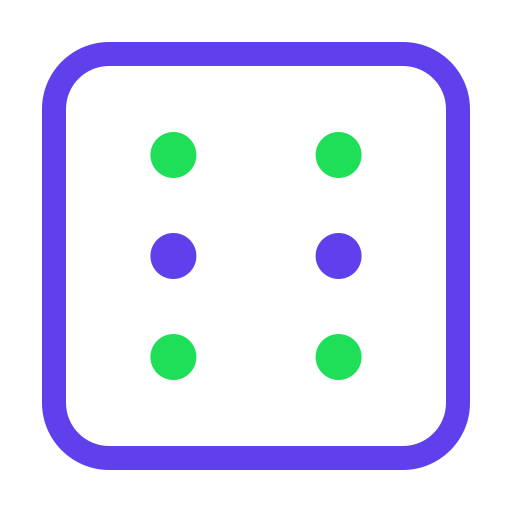
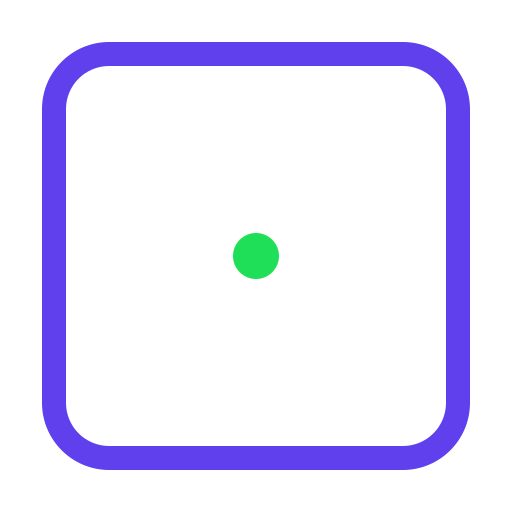
주사위 업로드

diff --git a/html/AM_class/homework/0916_game/주사위.html b/html/AM_class/homework/0916_game/주사위.html
@@ -1,12 +1,40 @@
 <!DOCTYPE html>
 <html lang="en">
+
 <head>
     <meta charset="UTF-8">
     <meta http-equiv="X-UA-Compatible" content="IE=edge">
     <meta name="viewport" content="width=device-width, initial-scale=1.0">
     <title>Document</title>
+    <link rel="stylesheet" href="주사위.css">
 </head>
-<body>
+
+<body onload="showImage()">
+    <div id="mask">
+        <div id="display_wrap">
+            <div id="user_dp">
+                <div class="title" id="user_title">user</div>
+                <div class="img_box">
+                    <div id="user_dp1" class="dp_img"><img src="" id="user_img1"></div>
+                    <div id="user_dp2" class="dp_img"><img src="" id="user_img2"></div>
+                    <div id="user_dp3" class="dp_img"><img src="" id="user_img3"></div>
+                </div>
+            </div>
+            <div id="com_dp">
+                <div class="title" id="com_title">com</div>
+                <div class="img_box">
+                    <div id="com_dp1" class="dp_img"><img src="" id="com_img1"></div>
+                    <div id="com_dp2" class="dp_img"><img src="" id="com_img2"></div>
+                    <div id="com_dp3" class="dp_img"><img src="" id="com_img3"></div>
+                </div>
+            </div>
+        </div>
+        <div id="ment_wrap">승자는??</div>
+        <div id="ctrl_wrap">
+            <button onclick="doClick()" id="start">주사위 굴리기</button>
+            <button id="retry" onclick="reTry()">재시작</button>
+        </div>
+    </div>
     <!-- 
          2. 주사위 게임
      주사위 이미지 구하여 주사위 게임하기
@@ -16,5 +44,118 @@
       2) 1,1,1 이 나오면 어떤 주사위 값보다 가장큰값
       3)  3,3,3  두번째로 가장 큰값
      -->
+
 </body>
+<script>
+    var m_out = document.getElementById("ment_wrap");
+
+    var u_t = document.getElementById("user_title");
+    var c_t = document.getElementById("com_title");
+
+    var u_out1 = document.getElementById("user_img1");
+    var u_out2 = document.getElementById("user_img2");
+    var u_out3 = document.getElementById("user_img3");
+
+    var c_out1 = document.getElementById("com_img1");
+    var c_out2 = document.getElementById("com_img2");
+    var c_out3 = document.getElementById("com_img3");
+
+    var u_out = [u_out1, u_out2, u_out3];
+    var c_out = [c_out1, c_out2, c_out3];
+
+    var dice_img = ["dice1.png", "dice2.png", "dice3.png", "dice4.png", "dice5.png", "dice6.png"]
+    var result = '';
+
+    var flag;
+
+    function showImage() {
+        var d_imgNum = [Math.round(Math.random() * 5),Math.round(Math.random() * 5),Math.round(Math.random() * 5)];
+        for(var i=0; i<3;i++){
+            c_out[i].src = dice_img[d_imgNum[i]];
+            u_out[i].src = dice_img[d_imgNum[i]];
+        }
+        
+        flag = setTimeout(showImage,50);
+    }
+    function doClick() {
+        clearTimeout(flag);
+        var com_dice1 = Math.floor(Math.random() * 6) + 1
+        var com_dice2 = Math.floor(Math.random() * 6) + 1
+        var com_dice3 = Math.floor(Math.random() * 6) + 1
+        var com_dice = [com_dice1, com_dice2, com_dice3];
+        var com_sum = com_dice1 + com_dice2 + com_dice3;
+
+        var user_dice1 = Math.floor(Math.random() * 6) + 1
+        var user_dice2 = Math.floor(Math.random() * 6) + 1
+        var user_dice3 = Math.floor(Math.random() * 6) + 1
+        var user_dice = [user_dice1, user_dice2, user_dice3];
+        var user_sum = user_dice1 + user_dice2 + user_dice3;
+
+        u_t.innerHTML = "USER 총합 : " + user_sum;
+        c_t.innerHTML = "COM 총합 : " + com_sum;
+
+        // 컴퓨터 나온 주사위 값에 맞게 이미지 삽입
+        for (var j = 0; j < com_dice.length; j++) {
+            for (var i = 1; i <= 6; i++) {
+                if (com_dice[j] == i) {
+                    c_out[j].src = dice_img[i - 1];
+                }
+            }
+        }
+        // 유저 값 삽입
+        for (var j = 0; j < user_dice.length; j++) {
+            for (var i = 1; i <= 6; i++) {
+                if (user_dice[j] == i) {
+                    u_out[j].src = dice_img[i - 1];
+                }
+            }
+        }
+        /*테스트*/
+        /* user_dice1 = 2;
+        user_dice2 = 2;
+        user_dice3 = 2;
+        user_sum = user_dice1 + user_dice2 + user_dice3;
+
+        com_dice1 = 1;
+        com_dice2 = 1;
+        com_dice3 = 1;
+        com_sum = com_dice1 + com_dice2 + com_dice3; */
+
+        if (user_dice1 == user_dice2 == user_dice3 || com_dice1 == com_dice2 == com_dice3) {
+            if (user_sum == 3 || user_dice1 == 3) {
+                if (user_sum == com_sum) {
+                    result = "DRAW";
+                } else if (com_sum == 3) {
+                    result = "DEFEAT";
+                } else {
+                    result = "WIN";
+                }
+            }
+            if (com_sum == 3 || com_dice1 == 3) {
+                if (com_sum == user_sum) {
+                    result = "DRAW";
+                } else if (user_sum == 3) {
+                    result = "WIN";
+                } else {
+                    result = "DEFEAT";
+                }
+            }
+        }else{
+            if(user_sum>com_sum){
+                result = "WIN";
+            }else if(user_sum==com_sum){
+                result ="DRAW";
+            } else{
+                result = "DEFEAT";
+            }
+        }
+        
+        m_out.innerHTML = "게임 결과 : " + result + "<br>" + "USER : " + user_dice1 + " + " + user_dice2 + " + " + user_dice3 + " = " + user_sum + "&nbsp&nbsp&nbsp&nbsp" + "COM : " + com_dice1 + " + " + com_dice2 + " + " + com_dice3 + " = " + com_sum
+    }
+
+    function reTry(){
+        flag = setTimeout(showImage,50);
+    }
+</script>
+
 </html>

diff --git a/html/AM_class/homework/0916_game/주사위.css b/html/AM_class/homework/0916_game/주사위.css
@@ -1,0 +1,117 @@
+/* 주사위.css */
+
+body{
+    margin: 0;
+    padding: 0;
+    box-sizing: border-box;
+}
+
+#mask{
+    width: 600px;
+    height: auto;
+    border: 1px solid #1EDF57;
+    margin: 150px auto;
+    display: flex;
+    flex-direction: column;
+}
+
+#display_wrap{
+    width: 600px;
+    height: 200px;
+    display: flex;
+}
+
+#com_dp, #user_dp{
+    width: 290px;
+    height: 190px;
+    padding: 5px;
+    border-right: 1px solid #1EDF57;
+    text-align: center;
+    font-size: 20px;
+    font-weight: 800;
+    color: #1EDF57;
+    text-shadow: 1px 1px 1px #6f6f6f;
+    display: flex;
+    flex-direction: column;
+}
+#com_dp{
+    border-right: none;
+}
+
+.title{
+    width: 100%;
+    height: 15%;
+}
+
+.img_box{
+    display: flex;
+    position: relative;
+    width: 100%;
+    height: 85%;
+}
+
+#ment_wrap{
+    width: 590px;
+    height: 90px;
+    padding: 5px;
+    font-size: 20px;
+    font-weight: 700;
+    text-align: center;
+    border-top: 1px solid #1EDF57;
+    border-bottom: 1px solid #1EDF57;
+}
+
+#ctrl_wrap{
+    width: 590px;
+    height: 150px;
+    position: relative;
+}
+#start{
+    width: 90px;
+    height: 90px;
+    border-radius: 100%;
+    font-size: 20px;
+    font-weight: 800;
+    position: absolute;
+    top: 50%;
+    left: 50%;
+    transform: translate(-50%,-50%);
+    cursor: pointer;
+    border: none;
+    background: #6040ec;
+    color: white;
+    box-shadow: 3px 3px 3px #6f6f6f;
+    text-shadow: 1px 1px 1px #6f6f6f;
+}
+
+.dp_img{
+    width: 33.3%;
+    height: 100%;
+    position: relative;
+}
+
+img{
+    max-width: 100%;
+    position: absolute;
+    top: 50%;
+    left: 50%;
+    transform: translate(-50%,-50%);
+}
+
+button:active{
+    border: 1px solid #1EDF57;
+    color: #1EDF57;
+    background: white;
+    text-shadow: 1px 1px 1px #6f6f6f;
+}
+
+#retry{
+    background: white;
+    border: 1px solid #1EDF57;
+    cursor: pointer;
+}
+
+#retry:active{
+    background: #1EDF57;
+    color: white;
+}

diff --git a/html/AM_class/homework/0916_game/로또.html b/html/AM_class/homework/0916_game/로또.html
@@ -28,9 +28,6 @@
      -->
 </body>
 <script>
-
-
-
     function raf_start() {
         var l_num = [];
         var r_out = document.getElementById("result");
@@ -155,8 +152,6 @@
             } return false;
         } return l_num;
     }
-
-
 
 </script>
 

diff --git a/html/AM_class/homework/0916_game/로또.css b/html/AM_class/homework/0916_game/로또.css
@@ -51,6 +51,7 @@ button{
     color: white;
     border: none;
     border-radius: 10px;
+    cursor: pointer;
 }
 
 button:active{

diff --git a/html/AM_class/homework/0916_game/가위바위보.css b/html/AM_class/homework/0916_game/가위바위보.css
@@ -59,6 +59,7 @@ body{
     width: 190px;
     height: 190px;
     padding: 5px;
+    cursor: pointer;
 }
 
 #roc_bt{
